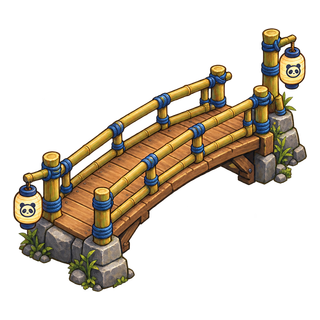
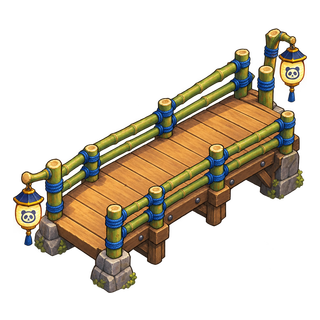
art: wider diagonal bridge view (12 CU)
Claude-Session: https://claude.ai/code/session_015Ev3RCo9wsVZkXfbKuMWsf

diff --git a/art/review/AUDIT.md b/art/review/AUDIT.md
@@ -1,7 +1,7 @@
 # Panda art audit
 
-Generated by `pnpm art audit`. 109/110 logical assets complete; 186 generation parts in total.
-**Incomplete**: see the problems column.
+Generated by `pnpm art audit`. 110/110 logical assets complete; 186 generation parts in total.
+**Complete.**
 
 | # | id | parts | masters | runtime | state | problems |
 |---|---|---|---|---|---|---|
@@ -114,4 +114,4 @@ Generated by `pnpm art audit`. 109/110 logical assets complete; 186 generation p
 | 107 | cliff_end | 1 | 1 | 1 | validated |  |
 | 108 | grass_patch | 1 | 1 | 1 | validated |  |
 | 109 | tile_water | 1 | 1 | 1 | validated |  |
-| 110 | bridge | 3 | 3 | 3 | 2 validated, 1 failed | bridge.diag: failed; bridge.diag: Corners are not transparent (painted background or checkerboard). |
+| 110 | bridge | 3 | 3 | 3 | 3 validated |  |
